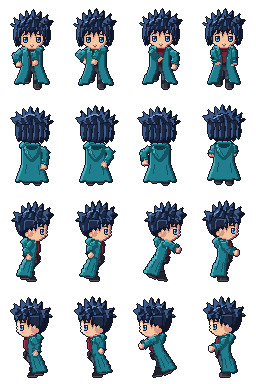
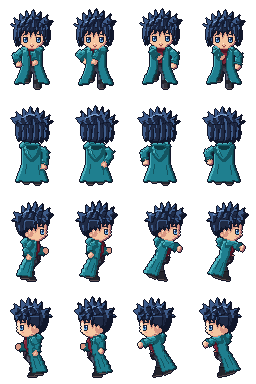
Golpe: soco final com o braço totalmente esticado para a frente; de lado soca o braço de perto
Claude-Session: https://claude.ai/code/session_013vLqrVyPBNyjBLYS91kN9N

diff --git a/public/pixelHero.js b/public/pixelHero.js
@@ -700,10 +700,12 @@ const GOLPE = [
     legL: { fwd: 0.35, out: 0.14, knee: 0.55, foot: 0 }, legR: { fwd: -0.35, out: 0.12, knee: 0.5, foot: 0 } }),
   pz({ spine: { pitch: 0.16, yaw: -0.75, roll: 0.06 }, armR: { fwd: -1.0, out: 0.35, twist: 0, elbow: 1.8 }, armL: { fwd: 0.85, out: 0.05, twist: 0, elbow: 1.3 },
     legL: { fwd: 0.4, out: 0.14, knee: 0.75, foot: 0 }, legR: { fwd: -0.4, out: 0.12, knee: 0.7, foot: 0 } }),
-  pz({ root: { x: 0, y: 0, z: 1.4, pitch: 0.14, yaw: 0, roll: 0 }, spine: { pitch: 0.18, yaw: 0.4, roll: -0.04 }, armR: { fwd: 1.5, out: -0.1, twist: 0, elbow: 0.05 },
-    armL: { fwd: -0.2, out: 0.25, twist: 0, elbow: 1.6 }, legL: { fwd: 0.5, out: 0.14, knee: 0.35, foot: 0 }, legR: { fwd: -0.5, out: 0.12, knee: 0.1, foot: -0.2 } }),
-  pz({ spine: { pitch: 0.06, yaw: 0.1, roll: 0 }, armR: { fwd: 0.5, out: 0.1, twist: 0, elbow: 1.0 }, armL: { fwd: 0.4, out: 0.12, twist: 0, elbow: 1.0 },
-    legL: { fwd: 0.15, out: 0.1, knee: 0.25, foot: 0 }, legR: { fwd: -0.15, out: 0.1, knee: 0.25, foot: 0 } }),
+  // Impacto: braço do soco totalmente esticado para a frente (na altura do ombro), o outro recolhido no quadril.
+  pz({ root: { x: 0, y: 0, z: 1.4, pitch: 0.14, yaw: 0, roll: 0 }, spine: { pitch: 0.18, yaw: 0.4, roll: -0.04 }, armR: { fwd: 1.62, out: 0, twist: 0, elbow: 0 },
+    armL: { fwd: -0.3, out: 0.25, twist: 0, elbow: 1.7 }, legL: { fwd: 0.5, out: 0.14, knee: 0.35, foot: 0 }, legR: { fwd: -0.5, out: 0.12, knee: 0.1, foot: -0.2 } }),
+  // Último quadro: o soco segura esticado (acompanhamento), só o corpo assenta um pouco.
+  pz({ root: { x: 0, y: 0, z: 1.2, pitch: 0.1, yaw: 0, roll: 0 }, spine: { pitch: 0.12, yaw: 0.35, roll: -0.02 }, armR: { fwd: 1.57, out: 0, twist: 0, elbow: 0 },
+    armL: { fwd: -0.2, out: 0.22, twist: 0, elbow: 1.6 }, legL: { fwd: 0.45, out: 0.14, knee: 0.4, foot: 0 }, legR: { fwd: -0.45, out: 0.12, knee: 0.2, foot: -0.1 } }),
 ];
 // Jutsu (selagem), 5 quadros: prepara, selo na frente do peito (os dois antebraços sobem até as mãos se juntarem no
 // meio do peito), selo firme com a base baixa, solta com as palmas para a frente, volta.
@@ -728,9 +730,18 @@ export function skeletonFrame(view, anim, t) {
   const yaw = YAW_OF_DIR[{ frente: 0, costas: 3, direita: 2 }[v]];
   // Caminhada: balanço dos braços 1,3x o do esqueleto, com o braço quase reto (pendendo do ombro, sem "bengala").
   // De costas, a caminhada é amostrada meio quadro adiante: em t = 1/6 e 2/6 a vista saía quase igual (quadro repetido).
-  const pose1 = anim ? (HERO_ANIMS[anim] ? HERO_ANIMS[anim](t) : poseOf(anim, anim === 'andar' && v === 'costas' ? t + 1 / 12 : t)) : basePose();
+  let pose1 = anim ? (HERO_ANIMS[anim] ? HERO_ANIMS[anim](t) : poseOf(anim, anim === 'andar' && v === 'costas' ? t + 1 / 12 : t)) : basePose();
   if (anim === 'andar') for (const a of ['armL', 'armR']) pose1[a] = { ...pose1[a], fwd: pose1[a].fwd * 1.3, elbow: 0.2 };
   ENCURTA = HERO_ANIMS[anim] ? [0.1, 0.25] : [0.25, 0.5];
+  // De lado, quem soca é o braço de perto (o de longe fica escondido atrás do corpo): troca os lados do golpe.
+  if (anim === 'golpe' && v === 'direita') {
+    const near = solve(basePose(), yaw).P;
+    if (near.shoulderL[2] > near.shoulderR[2]) {
+      const sw = { ...pose1, armL: pose1.armR, armR: pose1.armL, legL: pose1.legR, legR: pose1.legL };
+      sw.spine = { ...pose1.spine, yaw: -pose1.spine.yaw, roll: -pose1.spine.roll };
+      pose1 = sw; // cópia: as poses do GOLPE são compartilhadas e não podem ser alteradas
+    }
+  }
   const R0 = solve(basePose(), yaw), R1 = solve(pose1, yaw);
   const P0 = R0.P, P1 = R1.P;
   const piv = PIVOTS[v];
